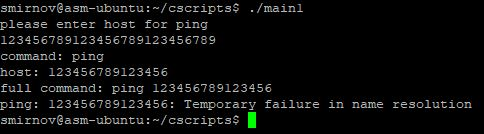
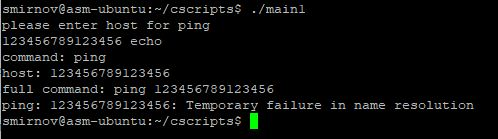
add 7.10 homework 2

diff --git a/7.10. C and software vulnerabilities - Andrey Smirnov.md b/7.10. C and software vulnerabilities - Andrey Smirnov.md
@@ -97,7 +97,7 @@ int main() {
 ![sshot7-10_2](img/7_10-2.jpg)
 
 
-3. Код данной программы уязвим к переполнению буфера (buffer overflow) в функции `gets()`. С помощью нулевого байта (Ctrl+@) и переполнения буфера мы можем выполнить любую другую команду, например посмотреть файлы - `ls -la`, для этого достаточно набрать следующий текст вместо адреса хоста `ls -la ^@12345678`:
+3. Код данной программы уязвим к переполнению буфера (buffer overflow) в функции `gets()`. Если указать 15 символов + команду с пробелом, исходная команда ping заменится на другую, напрмер `echo`. `123456789123456 echo `:
 
 
 ![sshot7-10_3](img/7_10-3.jpg)
@@ -170,7 +170,7 @@ int main() {
 
 
 
-1. Классическое переполнение буфера именно для хоста не получится, т.к. функция `fgets()` от этого защищена и читает только первые 15 символов, однако из-за особенностей `system()` возможно реализовать инъекцию других команд (это будет видно в следующих двух ответах): 
+1. Классическое переполнение буфера именно для хоста выполнить не получится, т.к. функция `fgets()` от этого защищена и читает только первые 15 символов - это видно, если попытаться выполнить команду из предыдущего задания `123456789123456 echo `. Однако из-за особенностей `system()` возможно реализовать инъекцию других команд (это будет видно в следующих двух ответах): 
 
 
 ![sshot7-10_4](img/7_10-4.jpg)
